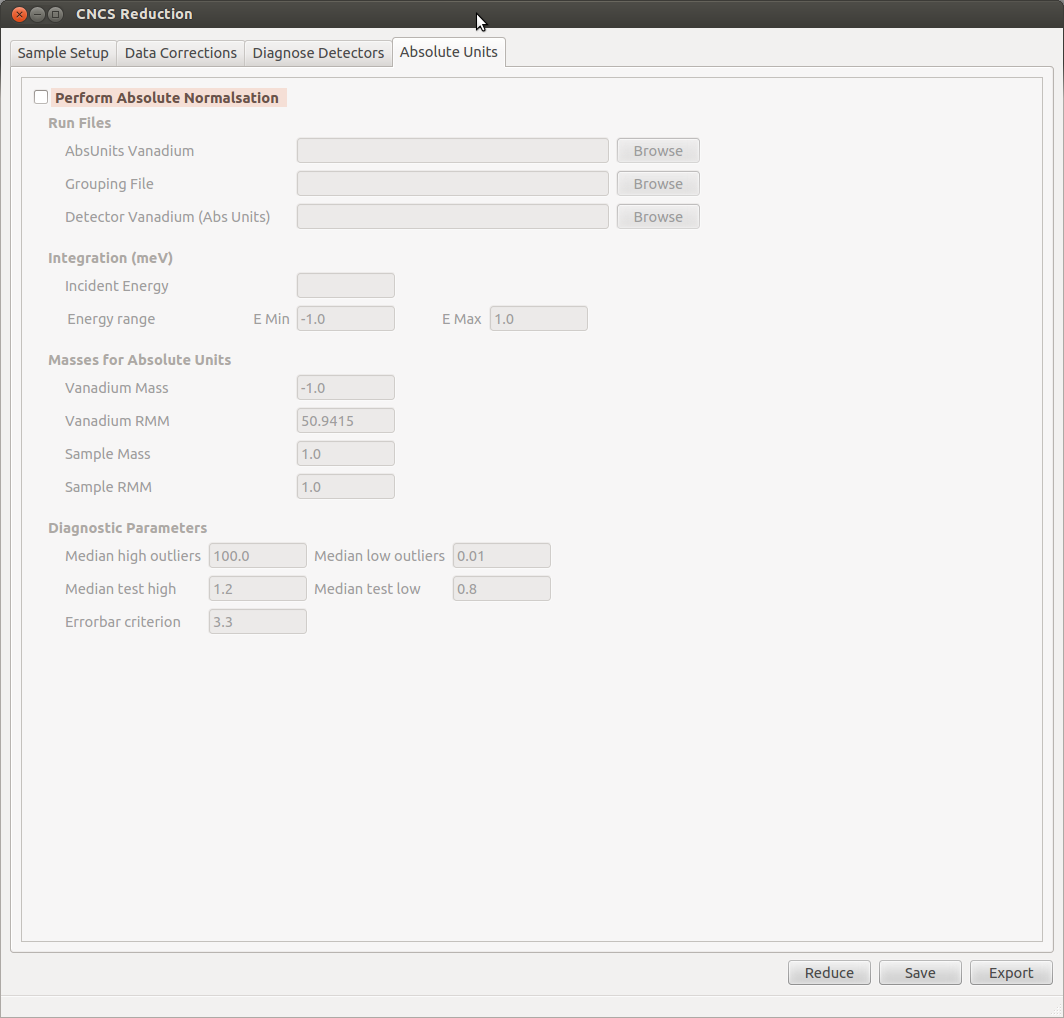
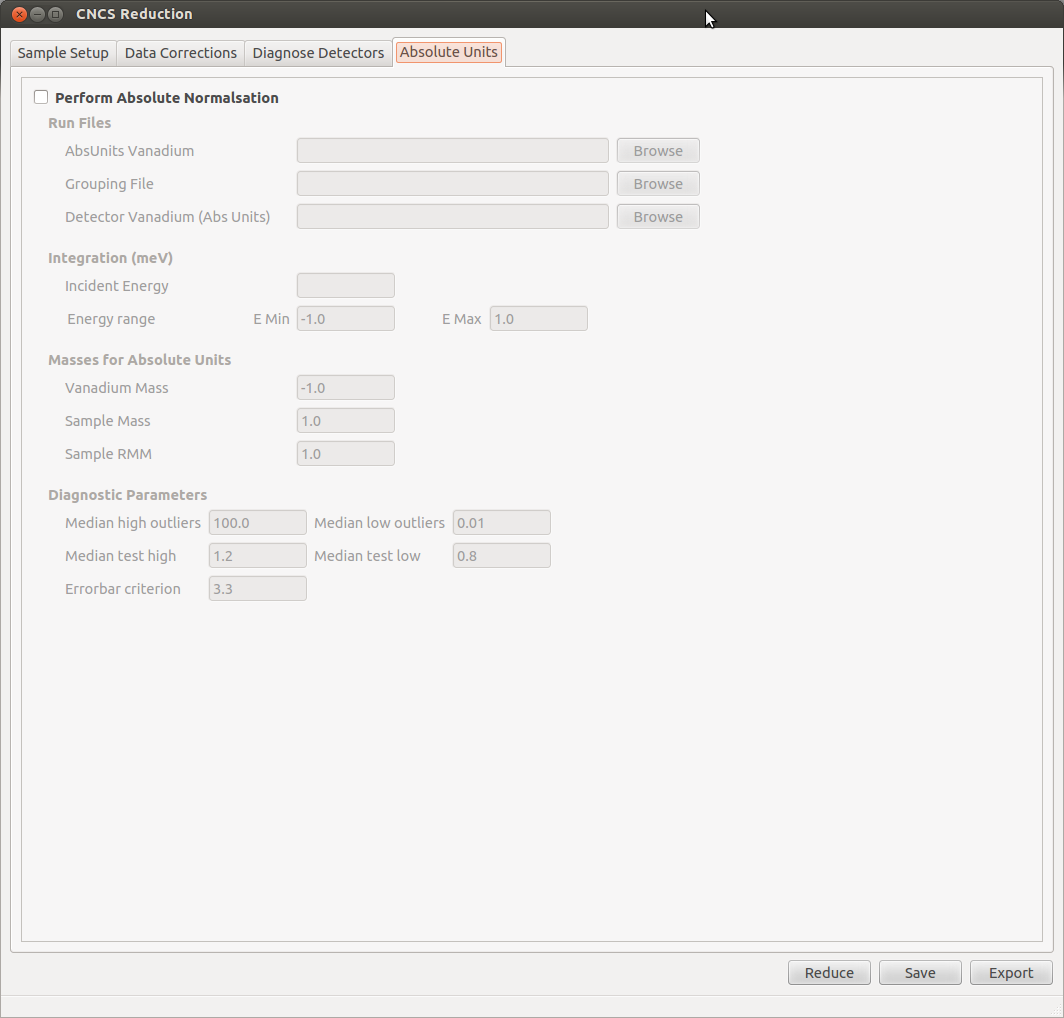
New figure, ui and alg section additions for DGSR manual.

diff --git a/Help/DGSReduction/ui.tex b/Help/DGSReduction/ui.tex
@@ -6,7 +6,7 @@ Once launched, the user is presented with the following layout (Figure~\ref{fig:
 \caption{Sample Setup tab on the DGS Reduction GUI}
 \label{fig:SamSet}
 \end{figure}
-Besides the tab that shows up on launch, there are three other tabs for parameter entry. Each tab will be discussed individually in the next sections. To get start quickly, a reduction can be run with a minimal amount of information entered into the \textit{Sample Setup} tab. A file can be entered into the \textit{Sample Data} field. For SNS instruments, this is all that is required. ISIS instruments will require an entry in the \textit{Incident Energy Guess} field in order to run. Once this minimal information is entered, the \textit{Reduce} button can be clicked to execute the reduction. A Python script can be saved to a file by clicking the \textit{Export} button and filling in a file name to the subsequent dialog.
+Besides the tab that shows up on launch, there are three other tabs for parameter entry. Each tab will be discussed individually in the next sections. To get start quickly, a reduction can be run with a minimal amount of information entered into the \textit{Sample Setup} tab. A file can be entered into the \textit{Sample Data} field. For SNS instruments, this is all that is required. ISIS instruments will require an entry in the \textit{Incident Energy Guess} field in order to run. Once this minimal information is entered, the \textit{Reduce} button can be clicked to execute the reduction. A Python script can be saved to a file by clicking the \textit{Export} button and filling in a file name to the subsequent dialog. A configuration file may be save by clicking the \textit{Save} button. This creates an XML file that can be loaded back into the GUI via the \textit{File/Open...} menu.
 \subsection{Sample Setup}
 As described earlier, the \textit{Sample Data} entry is the place to put a file (run) for reduction. The \textit{Browse} buttons allows you to locate that file via the standard file finder dialog. If this field is not filled in, the background color is yellow indicating that this field needs to be filled in before running reduction. The next field, \textit{Output Workspace Name}, allows you to control the name of the workspace as it appears in the \textit{MantidPlot} workspace listing. If nothing is entered, a default workspace name is created based on the sample file name without extension and the addition of this tag: '\_spe'. The \textit{DetCal File} entry is specific to ISIS instruments. Under normal circumstances, the detcal file is just the input sample file, but this does not have to be the case. This entry can be used to point to a different detcal file for use in the reduction. The \textit{Relocate Detectors} checkbox controls a parameter that can relocate the detectors in the \textit{LoadDetectorInfo} \textit{Mantid} algorithm that is run. 
 
@@ -24,10 +24,10 @@ This tab (Figure~\ref{fig:DataCorr}) deals with corrections that are applied to 
 \label{fig:DataCorr}
 \end{figure}
 
-The next section is deals with the \textit{Time-Independent Background Subtraction} parameters. Here, the two entries represent the TOF range in between which the background value will be determined. These parameters are also read from the parameter file. The \textit{Correct Ki/Kf} option allows you to turn off this particular correction since the default is to apply this correction.
+The next section is deals with the \textit{Time-Independent Background Subtraction} parameters. Here, the two entries represent the TOF range in between which the background value will be determined. These parameters are also read from the parameter file. The determined background will then be subtracted from the sample workspace. The \textit{Correct Ki/Kf} option allows you to turn off this particular correction since the default is to apply this correction. Turning off this correction is important for investigations of the phonon density of states.
 
 The last section deals with the \textit{Detector Vanadium} that is associated with the sample input data. The \textit{Input} entry is where you can input a detector vanadium file (run) for use in the reduction. The \textit{Browse} button will allow you to search for the file via the normal file dialog. The \textit{Use Processed} checkbox allows you to tell the reduction that the file you are providing has already been processed and just needs to be used as is in the reduction. How you save a processed detector vanadium will be covered soon. If \textit{Used Processed} is checked, all the following entries are cleared and disabled. If not, you can request specific bounds by checking the \textit{Use Bounds?} checkbox. This activates the \textit{Range} entries, in which you can specify the bounds of the integration for the detector vanadium. The default values are those found in the associated instrument parameter file. The units on the bounds are assumed to be energy in the parameter file. You can use the combobox at the end of the \textit{Range} entries to set the units on the integration bounds. The available options are Energy, Wavelength and TOF. Setting the units to anything other than TOF will causea unit conversion to occur on the detector vanadium data. The last options are used for if you are processing the detector vanadium for the first time. Checking the \textit{Save Processed} checkbox allows you to save a NeXus file containing the processed detector vanadium. Using this checkbox activates the Filename entry so that you can provide an output file name for the saved file. If you do not put anything into the entry, a default file name will be created and looks like "\textit{\textless OutputWorkspaceName \textgreater}\_idetvan.nxs". 
-\subsection{Diagnose Detectors}
+\subsection{Diagnose Detectors}\label{sec:UI-DiagDet}
 This tab (Figure~\ref{fig:DiagDet}) deals with performing diagnostic tests on the detector vanadium data being used in the reduction as well as the sample data for the reduction. On this tab, almost all of the entries and checkbox states are read from the instrument parameter file. The only exception is the \textit{Detector Van 2} entry. These parameters are the ones that the reduction algorithm will use in the diagnostic tests unless the values are changed in the GUI. 
 
 \begin{figure}[ht]
@@ -36,11 +36,11 @@ This tab (Figure~\ref{fig:DiagDet}) deals with performing diagnostic tests on th
 \label{fig:DiagDet}
 \end{figure}
 
-The first section, \textit{Detector Vanadium Tests}, deals with the parameters used for the two tests (\textit{FindDetectorsOutsideLimits} and \textit{MedianDetectorTest}) run on the detector vanadium data. The \textit{High counts} and \textit{Low counts} parameters are used in the \textit{FindDetectorsOutsideLimits} algorithm to determine hot and cold pixels in the data. All of the other parameters in this section are used in the \textit{MedianDetectorTest} algorithm. 
+The first section, \textit{Detector Vanadium Tests}, deals with the parameters used for the two tests (\textit{FindDetectorsOutsideLimits} and \textit{MedianDetectorTest}) run on the detector vanadium data. All of the parameters in this section are read from the instrument parameter file. The \textit{High counts} and \textit{Low counts} parameters are used in the \textit{FindDetectorsOutsideLimits} algorithm to determine hot and cold pixels in the data. All of the other parameters in this section are used in the \textit{MedianDetectorTest} algorithm. Once the median is calculated, the \textit{Median high outliers} and \textit{Median low outliers} entries are used as multipliers on the median and any pixel outside the bounds is masked and removed from the median. Next, the \textit{Median test high} and \textit{Median test low} are used as multipliers on the median and any pixel outside the bounds is masked. The \textit{Errorbar Criterion} entry is used in conjunction with previous two parameters, but checks the pixel signal minus the median.
 
-The \textit{Efficiency Variation Test} section uses a second set of detector vanadium data to compare against the original detector vanadium data. 
+The \textit{Efficiency Variation Test} section uses a second set of detector vanadium data to compare against the original detector vanadium data. The \textit{Detector Van 2} entry is where you specify this second detector vanadium file (run). The \textit{Browse} button can help you find a file via the normal dialog. The \textit{Ratio variation criterion} entry is the parameter used to check the consistency between the two detector vanadium datasets. This is used by the \textit{DetectorEfficiencyVariation} test which is run after the two previously described tests are run on the second detector vanadium.
 
-The \textit{Background Check} checkbox activates the parameters below it and will perform a \textit{MedianDetectorTest} on a sample workspace that has been incident beam normalised and integrated over the background range given by the \textit{TOF Start} and \textit{TOF End} entry parameters.
+The \textit{Background Check} checkbox activates the parameters below it and will perform a \textit{MedianDetectorTest} on a sample workspace that has been incident beam normalised and integrated over the background range given by the \textit{TOF Start} and \textit{TOF End} entry parameters. The other parameters are just in conjunction with the \textit{MedianDetectorTest} are are described previously. All the parameters in this section are read from the instrument parameter file.
 
 The \textit{Reject zero background} checkbox activates a \textit{FindDetectorsOutsideLimits} test on a sample workspace that has been incident beam normalised and integrated over the entire range of data present (one number per detector pixel or total counts). This test is hard-wired to check for detector pixels having their total counts between $1\times10^{-10}$ and $1\times10^{100}$. 
 
@@ -55,4 +55,10 @@ This tab (Figure~\ref{fig:AbsUnits}) handles collecting the data and parameters 
 \label{fig:AbsUnits}
 \end{figure}
 
-The first section, \textit{Run Files}, handles setting the appropriate data files for the absolute units calculation. The \textit{AbsUnits Vanadium} entry allows you to set the appropriate file (run) containing the absolute units sample data. As usual, the \textit{Browse} button can be used to navigate to a file.
+The first section, \textit{Run Files}, handles setting the appropriate data files for the absolute units calculation. The \textit{AbsUnits Vanadium} entry allows you to set the appropriate file (run) containing the absolute units sample data. As usual, the \textit{Browse} button can be used to navigate to a file. The \textit{Grouping File} entry allows you to group (map) the absolute units sample data during processing. This grouping is usually the same as the sample and sample detector vanadium processing, but this is not enforced. The Detector Vanadium (AbsUnits) entry allows you to specific a detector vanadium for the absolute units processing. Again, this detector vanadium is usually the one used for the sample data, but does not have to be. 
+
+The next section, \textit{Integration}, deals with setting the parameters for the integration of the absolute units sample data. The \textit{Incident Energy} entry allows you to specify the incident energy for the absolute units sample data. This is usually the same as the incident energy for the sample data, but does not necessarily have to be. The \textit{EMin} and \textit{EMax} entries for the \textit{Energy Range} are where you specify the range over which to accumulate the values that will go into the final value for the absolute units normalisation. These two parameters are read from the instrument parameter file.
+
+The following section, \textit{Masses for Absolute Units}, manages setting constants that will be applied to the final absolute units normalisation result. The \textit{Vanadium Mass} entry is where you specify the amount of vanadium (in grams) used as the absolute unit sample. This parameter is read from the instrument parameter file and if a $-1.0$ is shown, no good value is provided in the file. Since the absolute units is applied against the sample data, a ratio of sample information constants is required. This ratio uses the \textit{Sample Mass} and \textit{Sample RMM} entries to obtain the information. The first entry is the amount of the sample (in grams) being used and the second entry is the relative molecular mass of the sample. The default for both parameters is $1.0$ which means there is no a priori knowledge of the sample data.
+
+The last section, Diagnostic Parameters, handles setting the quantities used in the same diagnostic tests that were discussed in Section \ref{sec:UI-DiagDet}. In this case, only the \textit{FindDetectorsOutsideLimits} and \textit{MedianDetectorTest} are run on the absolute units sample after detector vanadium correction (if applicable). All of the parameters in this section are read from the instrument parameter file.

diff --git a/Help/DGSReduction/algorithms.tex b/Help/DGSReduction/algorithms.tex
@@ -15,20 +15,86 @@ The top-level workflow algorithm is called DgsReduction and is responsible for t
 
 \begin{itemize}
 \item DgsDiagnose
+\begin{itemize}
+\item DgsProcessDetectorVanadium
+\item DgsProcessDetectorVanadium
+\item DgsPreprocessData
+\item \textit{Integration}
+\item \textit{Integration}
+\item \textit{ConvertUnits}
+\item \textit{Divide}
+\item \textit{DetectorDiagnostic}
+\end{itemize}
 \end{itemize}
 
 \begin{itemize}
 \item DgsProcessDetectorVanadium
+\begin{itemize}
+\item DgsPreprocessData
+\item \textit{ConvertUnits}
+\item \textit{Rebin}
+\item \textit{MaskDetectors}
+\end{itemize}
 \end{itemize}
 
 \begin{itemize}
 \item DgsPreprocessData
+\begin{itemize}
+\item \textit{NormaliseByCurrent} or \textit{NormaliseToMonitor}
+\end{itemize}
 \end{itemize}
 
 \begin{itemize}
 \item DgsConvertToEnergyTransfer
+\begin{itemize}
+\item \textit{GetEi}
+\item \textit{ChangeBinOffset}
+\item \textit{MoveInstrumentComponent}\footnote{ISIS only}
+\item \textit{LoadDetectorInfo}\footnotemark[\value{footnote}]
+\item \textit{ConvertToDistribution}
+\item \textit{Rebin}\footnote{SNS only, due to event workspaces}
+\item \textit{ConvertUnits}\footnotemark[\value{footnote}]
+\item \textit{Rebin}\footnotemark[\value{footnote}]
+\item \textit{ConvertUnits}\footnotemark[\value{footnote}]
+\item \textit{ConvertToDistribution}\footnotemark[\value{footnote}]
+\item \textit{FlatBackground}
+\item \textit{ConvertToDistribution}\footnotemark[\value{footnote}]
+\item \textit{Minus}\footnotemark[\value{footnote}]
+\item \textit{ConvertFromDistribution}
+\item DgsPreprocessData
+\item \textit{ConvertUnits}
+\item \textit{Rebin}
+\item \textit{ConvertUnits}\footnote{SNS only}
+\item \textit{He3TubeEfficiency}\footnotemark[\value{footnote}] or \textit{DetectorEfficiencyCor}\footnote{ISIS}
+\item \textit{ConvertUnits}\footnote{SNS only}
+\item \textit{CorrectKiKf}
+\item \textit{Rebin}
+\item \textit{ConvertToDistribution}
+\item \textit{Divide}
+\item \textit{DgsRemap}
+\item \textit{SolidAngle}\footnote{Only used if grouping requested, but detvan not used}
+\item \textit{Divide}\footnotemark[\value{footnote}]
+\item \textit{Multiply}\footnote{ISIS only}
+\end{itemize}
 \end{itemize}
 
 \begin{itemize}
 \item DgsAbsoluteUnitsReduction
+\begin{itemize}
+\item DgsProcessDetectorVanadium
+\item DgsConvertToEnergyTransfer
+\item \textit{Divide}
+\item \textit{Rebin}
+\item \textit{ConvertToMatrixWorkspace}
+\item \textit{DetectorDiagnostic}
+\item \textit{MaskDetectors}
+\item \textit{ConvertFromDistribution}
+\item \textit{WeightedMeanOfWorkspace}
+\item \textit{Divide}
+\item \textit{Multiply}
+\end{itemize}
+\end{itemize}
+
+\begin{itemize}
+\item DgsRemap
 \end{itemize}
